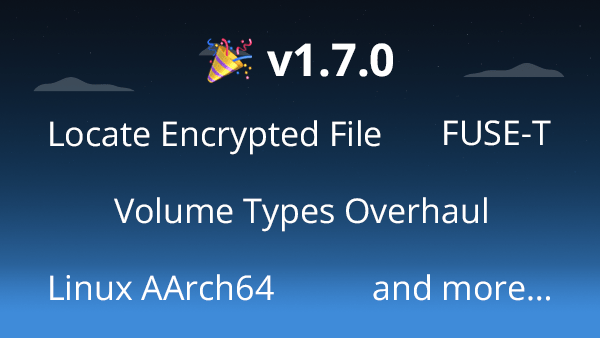
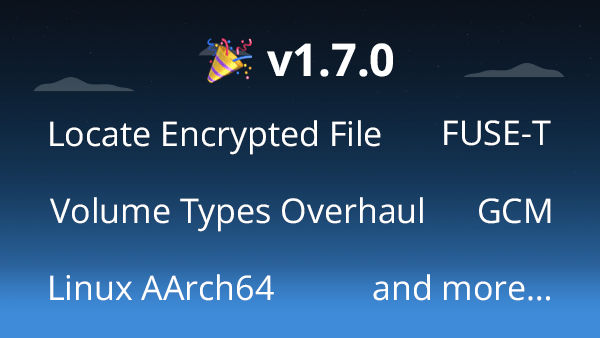
updated blog post on 1.7.0

Changed region(s): [[0.06, 0.5621, 0.93, 0.6805]]

diff --git a/content/blog/2023-02-01-1.7.0-what-you-need-to-know.de.md b/content/blog/2023-02-01-1.7.0-what-you-need-to-know.de.md
@@ -2,6 +2,7 @@
 title: "Cryptomator 1.7.0: Was hat sich geändert?"
 slug: 1-7-0-what-you-need-to-know 
 date: 2023-02-01
+notice: Dieser Blog-Post wurde am 2023-02-03 aktualisiert und um den Abschnitt über AES-GCM ergänzt.
 tags: [cryptomator, desktop, windows, mac, linux]
 
 summary: "Die Veröffentlichung von Cryptomator 1.7.0 für Desktop steht kurz bevor, und du solltest wissen, welche Änderungen es für dich bringt."
@@ -19,7 +20,7 @@ Wie bereits erwähnt, enthält Cryptomator 1.7.0 eine Funktion, die schon lange 
 
 Vor Version 1.7.0 musste man anhand der genauen Zeitstempel erraten, welche verschlüsselte Datei zu welcher Klartextdatei gehört. Jetzt kannst du, sobald der Tresor entsperrt ist, das verschlüsselte Gegenstück zu jeder Datei im Tresor herausfinden, indem du auf „Verschlüsselte Datei finden“ klickst und eine Datei im Tresor auswählst. Du kannst auch einfach Dateien aus deinem Tresor auf diese Schaltfläche ziehen. Überzeuge dich selbst in diesem kurzen Video:
 
-<video class="rounded" autoplay loop muted>
+<video class="rounded" autoplay loop muted playsinline>
   <source src="https://static.cryptomator.org/blog/locate-encrypted-file.mov" type="video/mp4">
   Dein Browser unterstützt kein Video-Tag.
 </video>
@@ -69,3 +70,12 @@ Mit Cryptomator 1.7.0 werden wir endlich AArch64-Builds von Cryptomator via Flat
 Eine große Hürde war das bereits erwähnte FUSE-Filesystem-API unter Linux. Wir haben ein ziemlich altes Projekt verwendet, um die Brücke zwischen Cryptomator und FUSE zu schlagen. Dank der fantastischen Entwicklungsarbeit, die unser Chefarchitekt geleistet hat, verwenden wir nun die neueste Technologie, um diese Brücke zu implementieren. Das Ergebnis ist in der Bibliothek [jFUSE](https://github.com/cryptomator/jfuse) zusammengefasst. Wir haben nicht nur die Brücke geändert, sondern auch auf eine neue Hauptversion von FUSE aktualisiert und den Weg für die Unterstützung von Features wie Extended Attributes geebnet.
 
 Noch ist das AppImage nur für x86_x64 verfügbar, aber wir planen, es in Zukunft auch für die AArch64-Architektur anzubieten.
+
+## AES-GCM: Neuer Standard für Inhaltsverschlüsselung
+Ab Cryptomator 1.7.0 verwenden neu erstellte Tresore [AES-GCM](https://de.wikipedia.org/wiki/Galois/Counter_Mode) anstelle von AES-CTR+HMAC für die Verschlüsselung von Dateiinhalten.
+
+Heutzutage bieten fast alle nicht eingebetteten Geräte Hardwarebeschleunigung im Galois/Counter-Modus, so dass die Ver- und Entschlüsselung deutlich schneller sein sollte als im alten Modus. Die Unterstützung in unserer zugrundeliegenden kryptographischen Bibliothek [cryptolib](https://github.com/cryptomator/cryptolib) wurde bereits im Juni 2021 mit der Version 2.0.0 hinzugefügt. Wir haben jedoch nicht überstürzt gehandelt, sondern eine angemessene Testphase eingeräumt und sind nun zuversichtlich, dir diese Verbesserung anbieten zu können.
+
+Selbstverständlich unterstützen auch unsere mobilen Apps AES-GCM, auch wenn Tresore, die mit iOS oder Android erstellt wurden, vorerst weiterhin AES-CTR+HMAC verwenden. Die mobilen Apps werden mit der nächsten Minor-Version umgestellt.
+
+Du kannst deine bestehenden Tresore wie bisher verwenden. Es gibt keine Tresor-Upgrades und es sind keine Maßnahmen von deiner Seite erforderlich. Cryptomator unterstützt beide Modi.

diff --git a/content/blog/2023-02-01-1.7.0-what-you-need-to-know.en.md b/content/blog/2023-02-01-1.7.0-what-you-need-to-know.en.md
@@ -2,6 +2,7 @@
 title: "Cryptomator 1.7.0: What You Need to Know"
 slug: 1-7-0-what-you-need-to-know 
 date: 2023-02-01
+notice: This blog post was updated on 2023-02-03 to include the section on AES-GCM.
 tags: [cryptomator, desktop, windows, mac, linux]
 
 summary: "The release of Cryptomator 1.7.0 for Desktop is near, and you should know what changes it brings to you."
@@ -19,7 +20,7 @@ As already mentioned, Cryptomator 1.7.0 includes a feature that has been request
 
 Prior to 1.7.0, you had to guess which encrypted file corresponds to which cleartext file based on the exact timestamps. Now, once the vault is unlocked, the encrypted counterpart of any file in the vault can be revealed by clicking on the "Locate Encrypted File" button and selecting a file in the vault. Or you can simply drag and drop the files from your vault onto this button. See for yourself in this short video:
 
-<video class="rounded" autoplay loop muted>
+<video class="rounded" autoplay loop muted playsinline>
   <source src="https://static.cryptomator.org/blog/locate-encrypted-file.mov" type="video/mp4">
   Your browser does not support the video tag.
 </video>
@@ -69,3 +70,12 @@ With Cryptomator 1.7.0, we'll finally ship AArch64 builds of Cryptomator via Fla
 One big obstacle was the aforementioned FUSE file system API on Linux. We were using a rather old project to build the bridge between Cryptomator and FUSE. Thanks to a fantastic development effort started by our lead architect, we now use state-of-the-art technology to implement this bridge. The result is bundled in the library called [jFUSE](https://github.com/cryptomator/jfuse). Not only were we able to change the bridge, we were also able to update to a new major version of FUSE and pave the way to support features like extended attributes.
 
 The AppImage is still x86_x64 only, but we plan to deliver it also in AArch64 architecture eventually.
+
+## AES-GCM: New Default for Content Encryption
+Starting with Cryptomator 1.7.0, newly created vaults will use [AES-GCM](https://en.wikipedia.org/wiki/Galois/Counter_Mode) instead of AES-CTR+HMAC for file content encryption.
+
+Nowadays, almost all non-embedded devices offer hardware acceleration of the Galois/Counter Mode of operation, so encryption and decryption should be significantly faster than in the old mode of operation. The support in our underlying cryptographic library [cryptolib](https://github.com/cryptomator/cryptolib) was already added in June 2021 with version 2.0.0. But instead of jumping the gun, we gave it a proper testing period and are now confident to ship this improvement to you.
+
+Of course, our mobile apps also support AES-GCM, although vaults created in iOS or Android will continue to use AES-CTR+HMAC for the time being. The mobile apps are scheduled to switch in their next minor release.
+
+You can continue to use your existing vaults as before. There are no vault upgrades and there is no action required on your part. Cryptomator will support both modes of operation.
